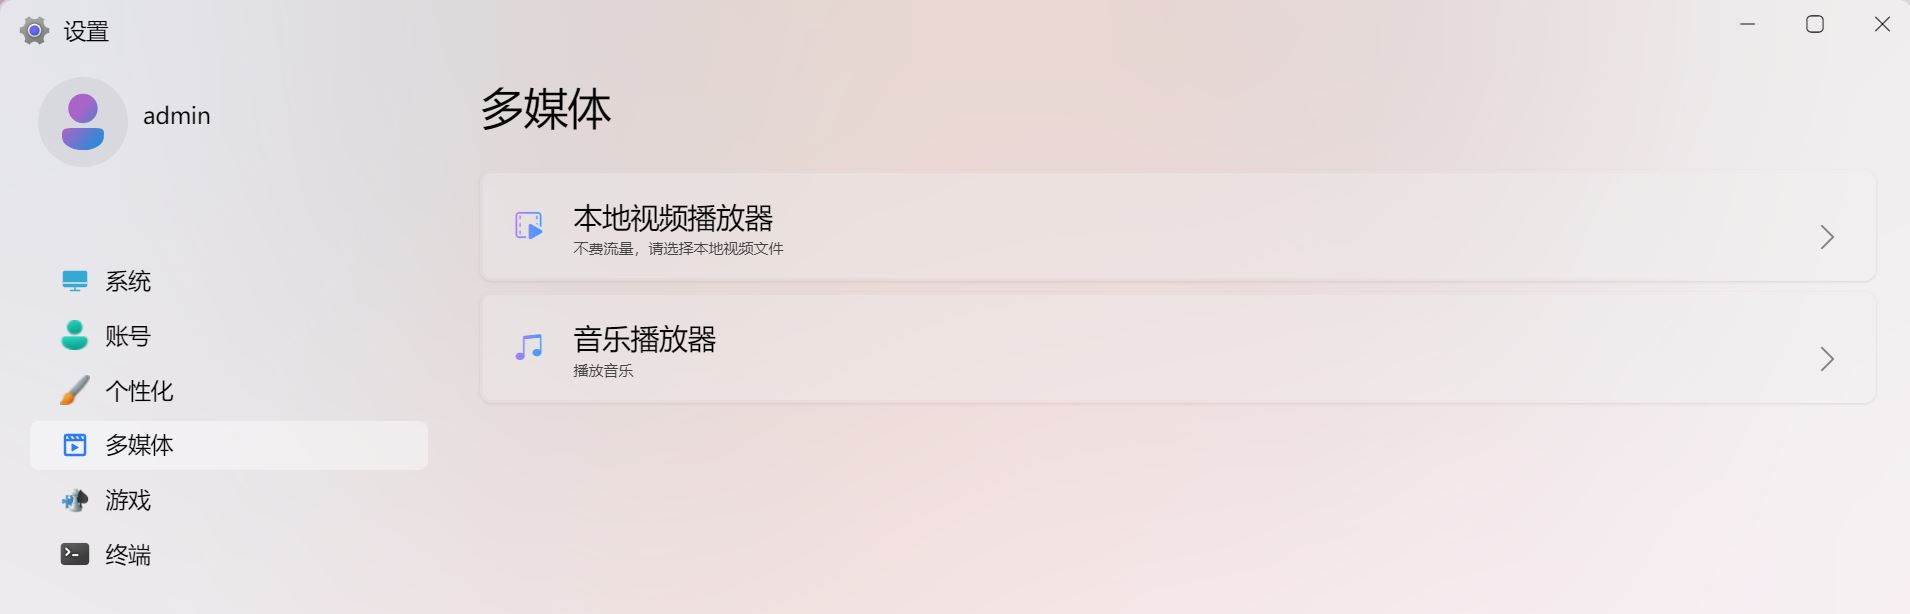
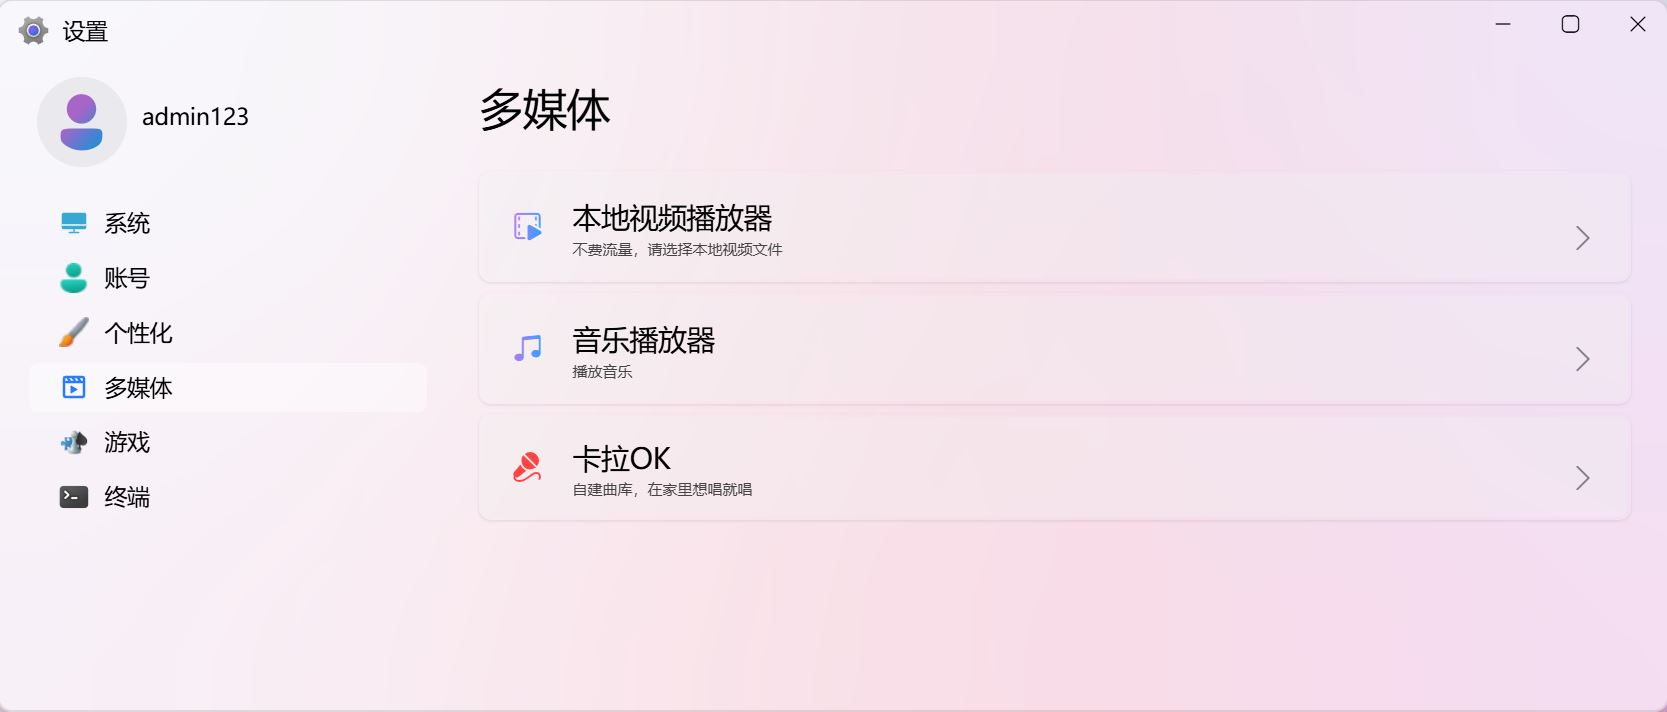
add

diff --git a/p/940241891.html b/p/940241891.html
@@ -19,7 +19,7 @@
       <header class="header mobile-only"></header>
       <div class="article banner top"><div class="content"><div class="bottom only-title"><div class="text-area">
         <h1 class="text title"><span>Windows 风格的个人网盘</span></h1>
-      </div><div class="publish-date"><span>发布时间: 2024-02-28</span>&nbsp;&nbsp;&nbsp;&nbsp;<span>更新时间: 2024-10-03</span><span class="copy-right">版权</span></div><div class="copyright-content"></div></div></div></div>
+      </div><div class="publish-date"><span>发布时间: 2024-02-28</span>&nbsp;&nbsp;&nbsp;&nbsp;<span>更新时间: 2024-10-31</span><span class="copy-right">版权</span></div><div class="copyright-content"></div></div></div></div>
       <article class="md-text content">
         <h2>写在最前面</h2>
         <p>众所周知，当前使用最广泛的云盘是百度网盘，而百度各种骚操作真让人无法忍受，倍速看视频还要开会员，真是恶心他妈给恶心开门。而号称不限速的阿里云盘也开始限速了，后面可能也和百度一个德行。其实各种体验问题都可以容忍，最无法忍受的是数据安全，我们上传到百度网盘的每一个文件，都已经被备份了 n 份了，尽管有些文件已经被我们删除了，但是这些文件仍然在百度的服务器里，个人隐私极不安全；可能有些人不太清楚，很久之前百度网盘有一个秒传功能，为什么一个几 G 的文件能秒传，那是因为百度的服务器里已经有了一个相同的文件了，你上传的文件其实并不是你的文件，如果你删除了这个文件，其实你也并没有删除这个文件。而且百度还有人工审核（偷窥）用户隐私图片的前科。还有另一个非常严重的问题是自己好不容易收藏的电影，结果变成了 8s 的教育片。</p>
@@ -37,6 +37,7 @@
             <li>支持给文件添加桌面快捷方式</li>
             <li>支持远程连接 Linux 服务器</li>
             <li>音乐播放器，支持播放云盘（服务端）和本地（客户端）的音乐</li>
+            <li>支持 Karaoke，自建曲库，在家想唱就唱</li>
             <li>集成 aria2，支持 HTTP、FTP、BitTorrent 等多种下载协议</li>
             <li>增加游戏中心，支持贪吃蛇、俄罗斯方块、套圈圈游戏（会陆续支持更多小游戏） —— 开源支持</li>
             <li>支持多语言，支持配置多语言 —— 开源支持</li>
@@ -73,6 +74,7 @@
         <pre><code>http://IP:Port/mycloud/swagger-ui</code></pre>
         <p>10、访问页面，url 是 <code>http://IP:Port/Windows</code>（这里的 IP 和 端口是 Nginx 中设置的 IP 和 端口。Windows 就是第 6 步中的前端配置的 location）</p>
         <p>11、如果想把当前服务器上已有的文件导入系统中，可访问后台 swagger-ui 接口页面，找到 <code>file/import</code> 接口，请求参数分别是需要导入的文件夹的绝对路径和目标的目录Id。</p>
+        <p>12、如果你需要使用 Karaoke 的功能自建曲库，那么还需要安装 FFmpeg，具体配置流程可参考<a href="/p/987654323.html" target="_blank">《自建家庭 KTV》中的安装 FFmpeg </a>的部分。</p>
         <h2>功能介绍</h2>
         <p>系统的核心功能就是一个网盘（和百度网盘的功能类似），还提供了比普通网盘更多的功能 —— 文本等文件的在线编辑功能，且可任意扩展功能。在页面上看到的文件和文件夹的目录层级结构在本地服务器/电脑的磁盘里是真实存在的，即使你以后觉得我这个系统不好用了，我也会给你留下一个完整有序的目录文件，而不是乱序的。</p>
         <h3>登录页面</h3>
@@ -110,7 +112,7 @@
         <p>可以设置桌面背景图片、切换明暗主题、切换窗口透明度、设置页面语言等，其中上传的桌面背景图片的格式必须是<code>jpg</code>。</p>
         <img src="/img/Windows/setting_personal.jpg" alt="setting_personal.jpg" loading="lazy">
         <h4>多媒体</h4>
-        <p>可以播放本地视频，或者打开音乐播放器听歌。</p>
+        <p>可以播放本地视频，也可以打开音乐播放器听歌，更可以 K 歌哦。</p>
         <img src="/img/Windows/setting_media.jpg" alt="setting_media.jpg" loading="lazy">
         <h4>游戏</h4>
         <p>可以玩一些网页版的小游戏，如：贪吃蛇、俄罗斯方块、套圈圈，更多小游戏会陆续支持。</p>
@@ -149,6 +151,8 @@
         <img src="/img/Windows/download-new.jpg" alt="download-new.jpg" loading="lazy">
         <p>如需查看当前正在下载的任务，点击 <code>下载列表</code> 即可。点击<code>暂停</code>可以暂停下载任务，点击<code>取消</code>可以取消下载，下载完成后，即可在目录里看到下载的文件。</p>
         <img src="/img/Windows/download-list.jpg" alt="download-list.jpg" loading="lazy">
+        <h3>Karaoke(卡拉OK)</h3>
+        <p>自建曲库，可以从网上下载自己喜欢的 MV 或者歌曲视频，经过一系列处理后就可以用来 K 歌了，任何互联网上能找到的歌曲，都可以进入你的曲库，再也不用担心曲库里没有你想唱的歌。具体介绍详见<a href="/p/987654323.html">自建家庭 KTV</a>。</p>
         <h3>游戏</h3>
         <p>在设置里增加了网页版游戏，现支持贪吃蛇（支持方向键控制）、俄罗斯方块（支持方向键控制）、套圈圈游戏，后续会陆续支持其他网页版的小游戏</p>
         <img src="/img/Windows/snake.jpg" alt="snake.jpg" loading="lazy">

diff --git a/sw.js b/sw.js
@@ -1,4 +1,4 @@
-const CACHE_NAME = 'sw-1-6';
+const CACHE_NAME = 'sw-1-7';
 
 const urlsToCache = [
   '/', '/img/donate.jpg'
